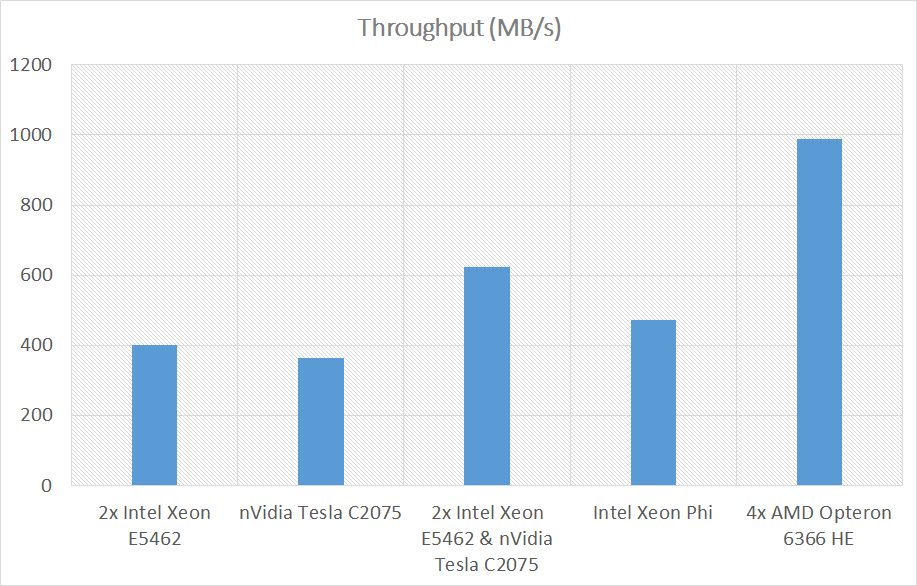
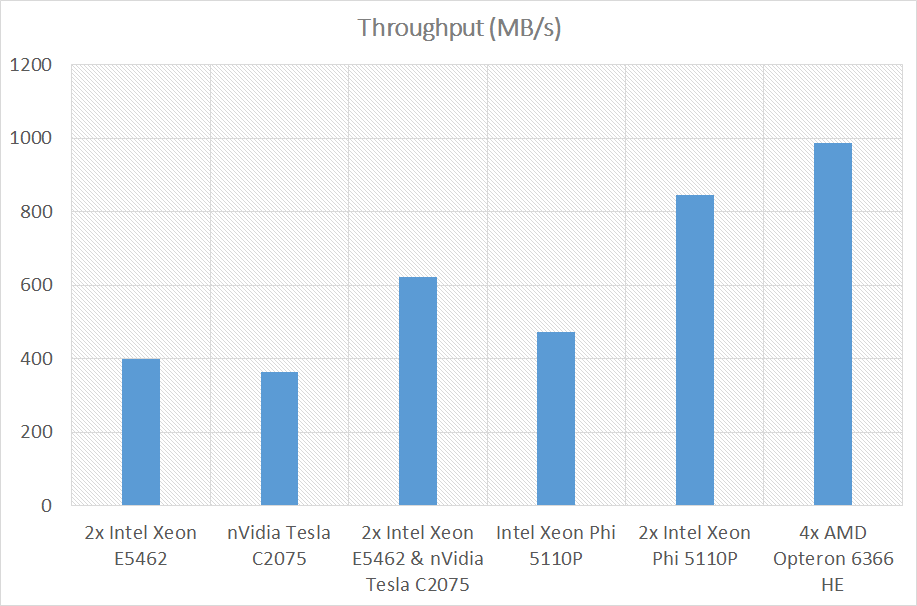
Adds Phi+Phi results

diff --git a/Dissertation/includes/conclusion.tex b/Dissertation/includes/conclusion.tex
@@ -35,18 +35,18 @@ single system.
 On a single system, there can be upwards of four GPUs which can each
 independently score documents. With modern GPUs being significantly more
 powerful than the nVidia Tesla C2075 which achieves a throughput 363.6MB/s it
-wouldn't be hard to envisage upwards of 1GB/s per GPU for instance, a quad
-nVidia GTX Titan or GTX 780 Ti system. The move to nVidia's GeForce line (and
-equivalent consumer lines for other manufacturers) is acceptable in this
-scenario as double floating point precision and other enterprise class features
-are not required in the document filtering system. A single system could then
-process documents at a rate of 8GB/s. Given the targeted application being the
-classification of documents on a network stream and that Ethernet utilisation is
-rarely in excess of 30\% of capacity for a sustained period of time, this
-32Gbit/s rate is enough to handle 100Gbit/s Ethernet. As such, further work
-would be to make sure of a more modern, high end multiple GPU set up to
-investigate the amount of performance that can be achieved from devices attached
-to a single motherboard.
+wouldn't be hard to envisage upwards of 1GB/s per GPU for instance, a nVidia GTX
+Titan or GTX 780 Ti system. The move to nVidia's GeForce line (and equivalent
+consumer lines for other manufacturers) is acceptable in this scenario as double
+floating point precision and other enterprise class features are not required in
+the document filtering system. A single system can handle four GPUs so it could
+then process documents at a rate of 4GB/s. Given the targeted application being
+the classification of documents on a network stream and that Ethernet
+utilisation is rarely in excess of 30\% of capacity for a sustained period of
+time, this 32Gbit/s rate is enough to handle 100Gbit/s Ethernet. As such,
+further work would be to make sure of a more modern, high end multiple GPU set
+up to investigate the amount of performance that can be achieved from devices
+attached to a single motherboard.
 
 Neither the data structures or the algorithm was designed with the Intel Xeon
 Phi architecture in mind thus the performance of the device has the potential

diff --git a/Dissertation/includes/evaluation.tex b/Dissertation/includes/evaluation.tex
@@ -310,11 +310,11 @@ Device & Test & Time (ms) & Throughput (MB/s)\\
 & Bloom Filter All Hits & 568 & 415.5 \\
 & Bloom Filter No Hits & 524 & 450.4 \\
 \hline
-\multirow{4}{*}{Intel Xeon E5-2620 \& Intel Xeon Phi}
-& No Bloom Filter & a & b \\
-& Bloom Filter & c & d \\
-& Bloom Filter All Hits & e & f \\
-& Bloom Filter No Hits & g & h \\
+\multirow{4}{*}{2x Intel Xeon Phi 5110P}
+& No Bloom Filter & 279 & 845.9 \\
+& Bloom Filter & 289 & 816.6 \\
+& Bloom Filter All Hits & 313 & 754 \\
+& Bloom Filter No Hits & 280 & 842.9 \\
 \hline
 \multirow{4}{*}{4x AMD Opteron 6366 HE}
 & No Bloom Filter & 239 & 987.4 \\
@@ -329,7 +329,10 @@ Device & Test & Time (ms) & Throughput (MB/s)\\
 
 Figure \ref{fig:parseScoringBest} takes each device's best result and compares
 them in a bar graph. From a single device perspective, the AMD System takes the
-lead easily. For the dual device perspective, ...
+lead easily. For the dual device perspective, the two Intel Xeon Phi 5110Ps come
+out top, with just over 800MB/s throughput. This is still beaten by the single
+device AMD system however, given that the AMD system has 64 CPU cores versus
+the Intel Phis lower clocked 60 cores, this is as expected.
 
 \begin{figure}[H]
 \centering
@@ -572,3 +575,10 @@ plenty of cycles free to coordinate the system. Also, the PCI-E bandwidth is
 unlikely to be a bottleneck as the GPUs can be transferring data and executing
 kernels at slightly different times meaning a multi-GPU set up is unlikely to
 have significant overhead and scale almost linearly with the number of devices.
+This can be shown in the dual Intel Xeon Phi runs, which experience a near
+linear increase (80\%) compared to the single Intel Xeon Phi. This is with both
+devices requirement documents at the same time, and would represent the worst
+case in a real life application. In reality, the devices would be at different
+stages of classification meaning CPU cycles are more likely to be used more
+evenly over a set time frame, rather than bursts of high activity, followed by
+period of little activity while both devices are parsing and scoring.
